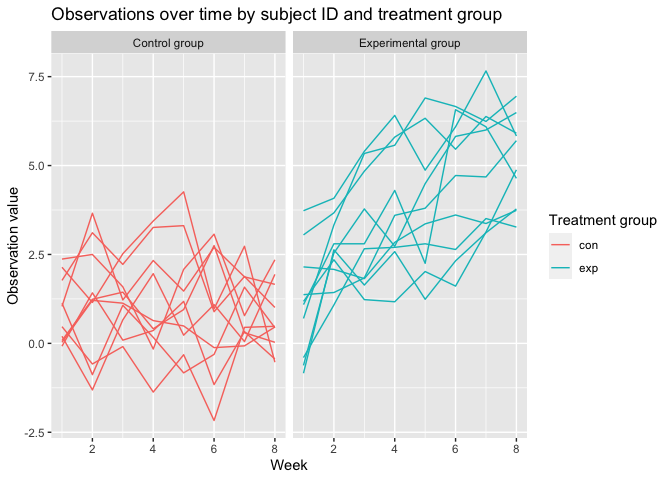
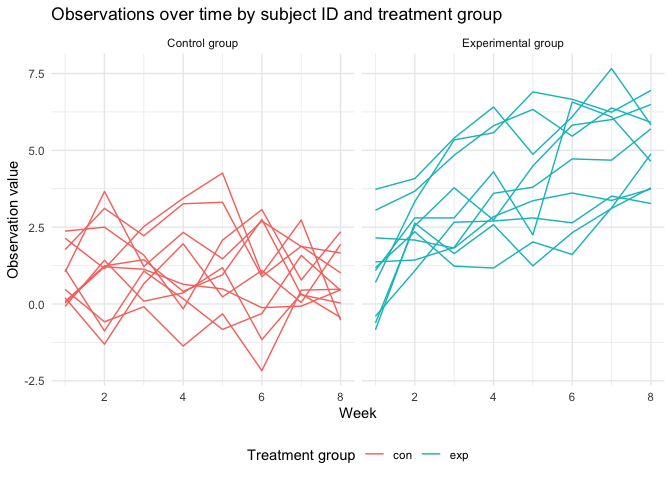
progress on problem 3 simulation for mu 0:6

diff --git a/p8105_hw5_smy2122.md b/p8105_hw5_smy2122.md
@@ -3,12 +3,15 @@ Homework 5
 Sarah Younes
 
 As always, I will begin by loading the packages I will need for this
-assignment: tidyverse. I will also use `set.seed` so that I get the same
-values in Problem 3 when I generate data sets.
+assignment: tidyverse. Then, I will `set.seed` so that I get the same
+values in Problem 3 when I generate data sets and enhance
+reproducibility. Additionally, I will set my theme and legend position
+for my plots.
 
 ``` r
 library(tidyverse)
 set.seed(1)
+theme_set(theme_minimal() + theme(legend.position = "bottom"))
 ```
 
 ## Problem 1
@@ -225,7 +228,7 @@ tidy_df |>
 ``` r
 tidy_df |>
   ggplot(aes(x = week, y = value, group = id, color = arm)) +
-  geom_path() +
+  geom_line() +
   facet_grid(. ~ arm, labeller = labeller(arm = c(con = "Control group", exp = "Experimental group"))) +
   labs(
     x = "Week",
@@ -236,49 +239,100 @@ tidy_df |>
 
 ![](p8105_hw5_smy2122_files/figure-gfm/plot-1.png)<!-- -->
 
+## Problem 3
 
-    ## Problem 3
+First, I will create a function that runs a one-sample t-test with n =
+30, mu = 0, sigma = 5, and an alpha level of 0.05.
 
-    First, I will create a function that runs a one-sample t-test with n = 30, mu = 0,  sigma = 5, and an alpha level of 0.05.
+``` r
+t_test_simulations = function(n = 30, mu = mu, sigma = 5) {
 
+    data =
+      tibble(
+        x = rnorm(n = n, mean = mu, sd = sigma))
 
-    ```r
-    t_test_simulations = function(n = 30, mu = 0, sigma = 5) {
-      
-        data =
-          tibble(
-            x = rnorm(n = n, mean = mu, sd = sigma))
+    t_test =
+      t.test(data, mean = mu, conf.level = 1 - 0.05) |>
+      broom::tidy()
+   
+  return(
+    tibble(
+      mu = mu,
+      mu_hat = pull(t_test, estimate),
+      p_value = pull(t_test, p.value)))
+    
+}
 
-        t_test =
-          t.test(data, mean = mu, conf.level = 1 - 0.05) |>
-          broom::tidy() |>
-          select(estimate, p.value)
-       
-      return(t_test)
+## test function
 
-    }
+t_test_simulations(mu = 0)
+```
 
-    ## test function
-
-    t_test_simulations(n = 20, mu = 0, sigma = 5)
-
-    ## # A tibble: 1 × 2
-    ##   estimate p.value
-    ##      <dbl>   <dbl>
-    ## 1    0.953   0.363
+    ## # A tibble: 1 × 3
+    ##      mu mu_hat p_value
+    ##   <dbl>  <dbl>   <dbl>
+    ## 1     0  0.412   0.629
 
 Now, I will run the function 5000 times with mu = 0.
 
 ``` r
 output = vector("list", 5000)
 
-for(i in 1:5000) {
+for (i in 1:5000) {
   
   output[[i]] = t_test_simulations(n = 30, mu = 0, sigma = 5)
   
 }
 
-sim_results = bind_rows(output)
+sim_results_mu_0 = bind_rows(output)
+
+sim_results_mu_0
 ```
 
-Now, I will run the function 5000 times with mu = 1:6.
+    ## # A tibble: 5,000 × 3
+    ##       mu mu_hat p_value
+    ##    <dbl>  <dbl>   <dbl>
+    ##  1     0  0.664  0.368 
+    ##  2     0  0.551  0.534 
+    ##  3     0  0.567  0.487 
+    ##  4     0 -1.65   0.0599
+    ##  5     0  1.19   0.229 
+    ##  6     0  0.334  0.738 
+    ##  7     0 -1.19   0.209 
+    ##  8     0  0.122  0.887 
+    ##  9     0  0.684  0.472 
+    ## 10     0  1.09   0.218 
+    ## # ℹ 4,990 more rows
+
+Now, I will run the function 5000 times with mu = 0:6.
+
+``` r
+output = vector("list", 35000)
+
+for (u in 0:6) {
+for (i in 1:5000) {
+  
+  output[[i]] = t_test_simulations(n = 30, mu = u, sigma = 5)
+  
+}
+}
+
+sim_results_all_mu = bind_rows(output)
+
+sim_results_all_mu
+```
+
+    ## # A tibble: 5,000 × 3
+    ##       mu mu_hat  p_value
+    ##    <int>  <dbl>    <dbl>
+    ##  1     6   7.34 2.53e-10
+    ##  2     6   5.94 3.32e- 7
+    ##  3     6   6.00 2.08e- 6
+    ##  4     6   6.34 6.19e- 7
+    ##  5     6   5.82 5.19e- 7
+    ##  6     6   7.52 2.24e- 8
+    ##  7     6   6.90 1.81e- 9
+    ##  8     6   4.45 1.42e- 6
+    ##  9     6   6.02 4.45e- 8
+    ## 10     6   7.33 1.09e-10
+    ## # ℹ 4,990 more rows
